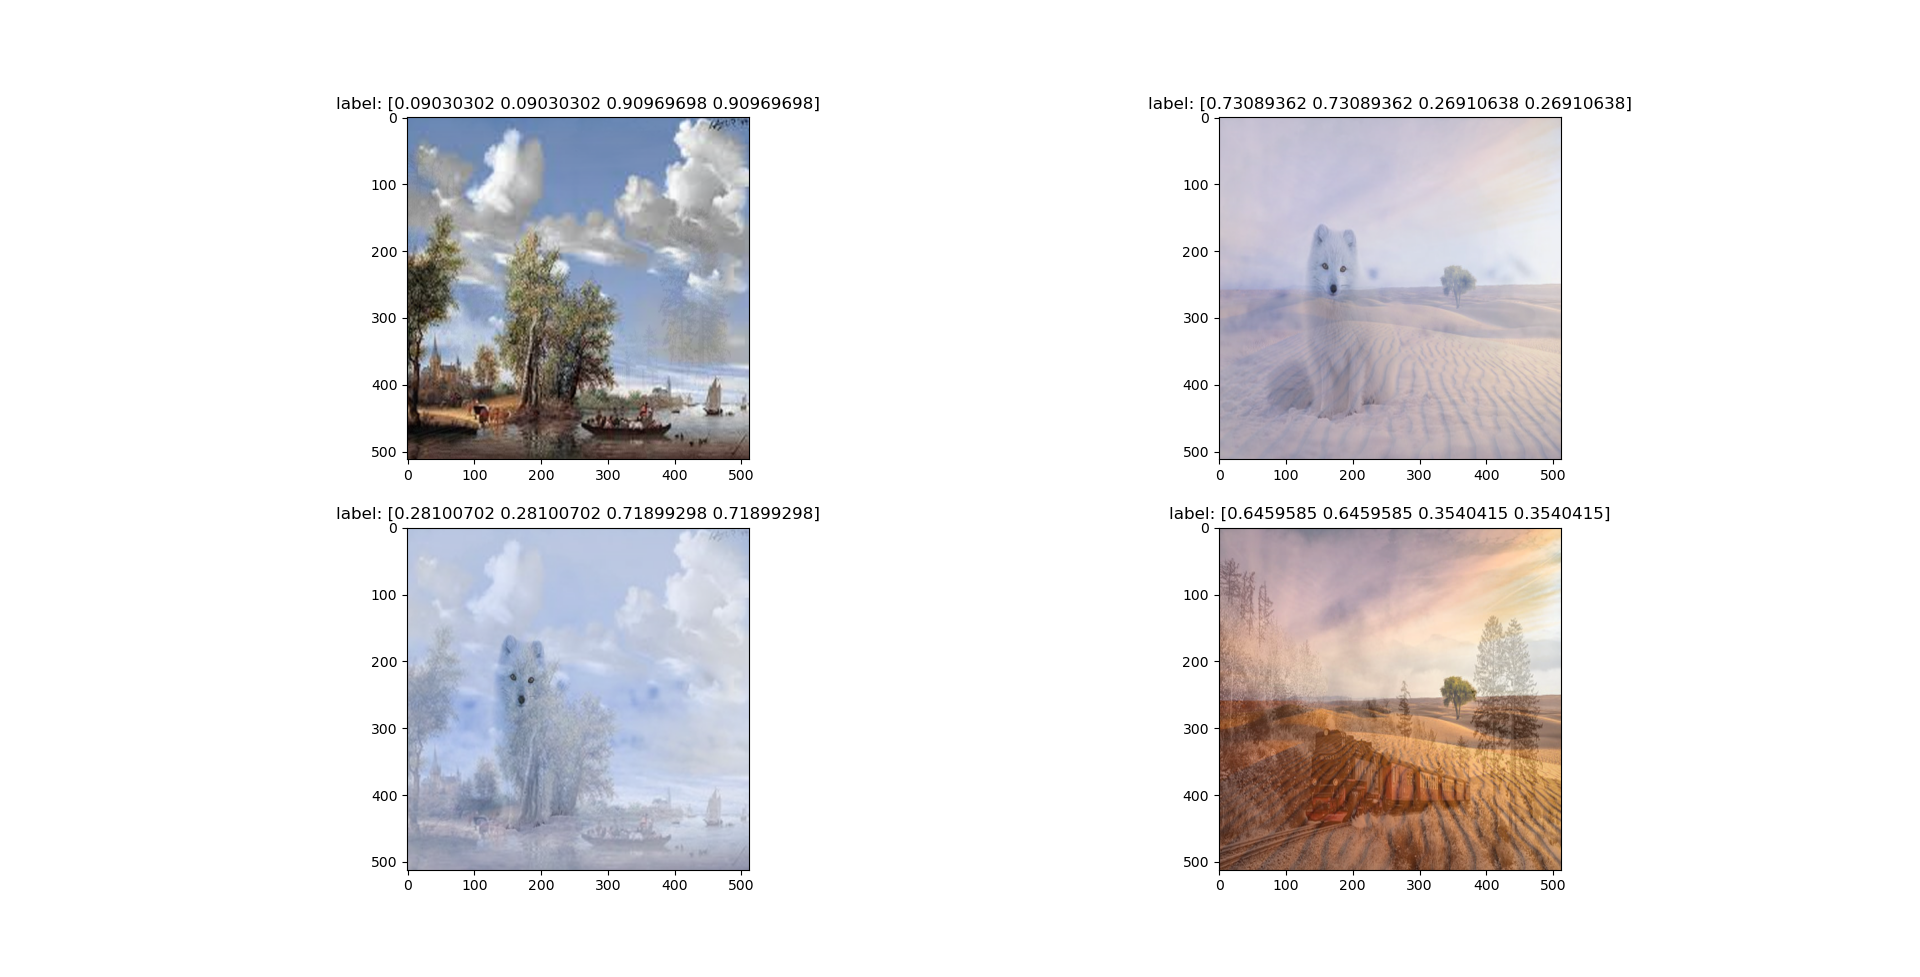
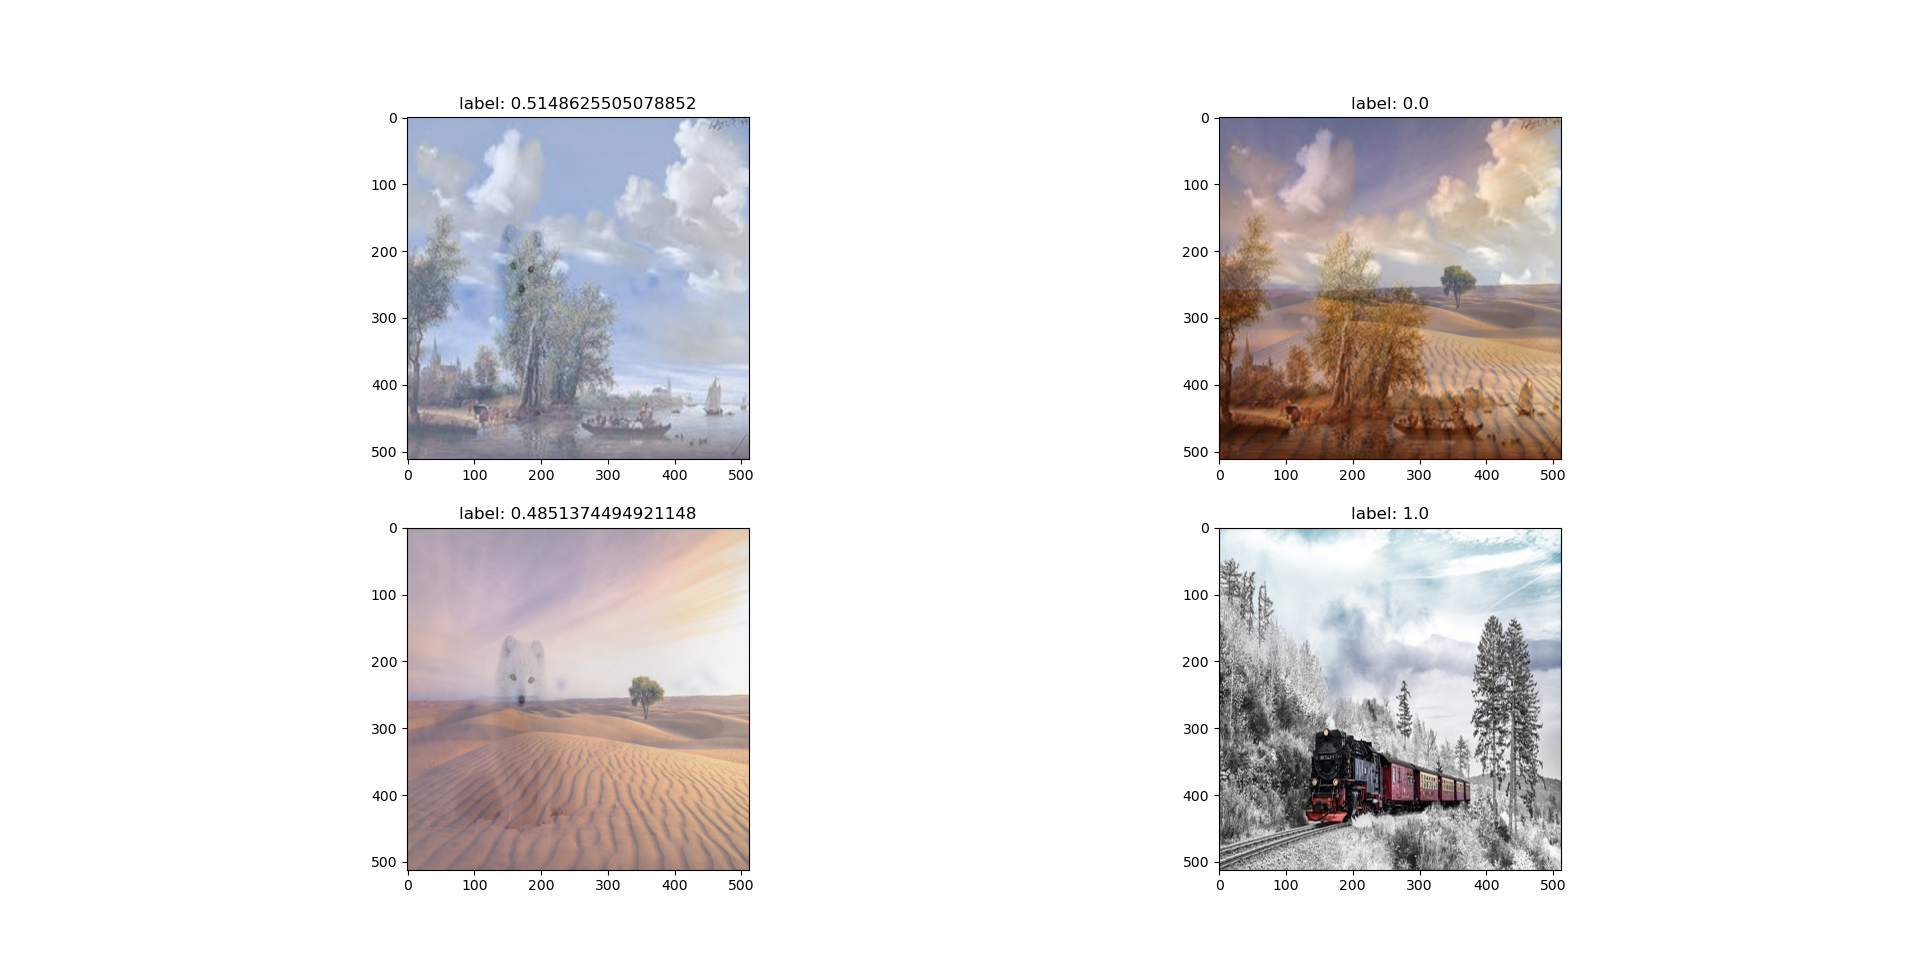
squashed labels to scalar

diff --git a/mixup.py b/mixup.py
@@ -10,16 +10,15 @@ def mixup(images, labels, alpha=1.5):
     """
     bs = images.shape[0]
     idxs = np.random.permutation(bs)
-    lamda = np.random.beta(alpha, alpha, size=bs) # alpha=beta to avoid skewed distribution 
+    lamda = np.random.beta(alpha, alpha, size=bs)[0] # alpha=beta to avoid skewed distribution 
     
     # mixing up images 
-    images = lamda.reshape(bs, 1, 1, 1) * images + (1-lamda).reshape(bs, 1, 1, 1) * images[idxs]
+    images = lamda * images + (1-lamda) * images[idxs]
 
     # mixing up labels
-    labels = lamda.reshape(bs, 1) * labels + (1-lamda).reshape(bs, 1) * labels[idxs]
+    labels = lamda * labels + (1-lamda) * labels[idxs]
 
     images = images.astype(np.uint8)
-
     return images, labels
 
 if __name__=='__main__':

diff --git a/README.md b/README.md
@@ -1,6 +1,6 @@
 # Image-Processing-and-Augmentation-Tools
 
-This library contains some numpy image processing and augmentation tools which will be updated frequently.
+This library contains some image processing and augmentation tools. This repository will be updated frequently with some new tools and features.
 
 **Mixup**
 ![Mixup](images/mixup.png?raw=true)
